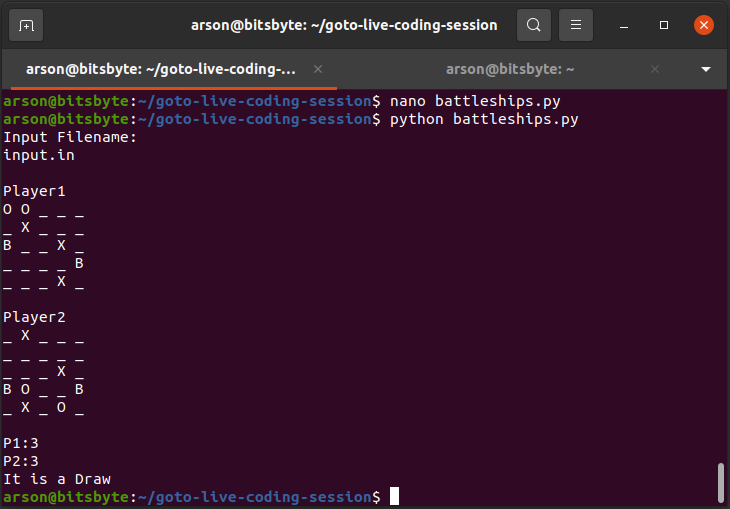
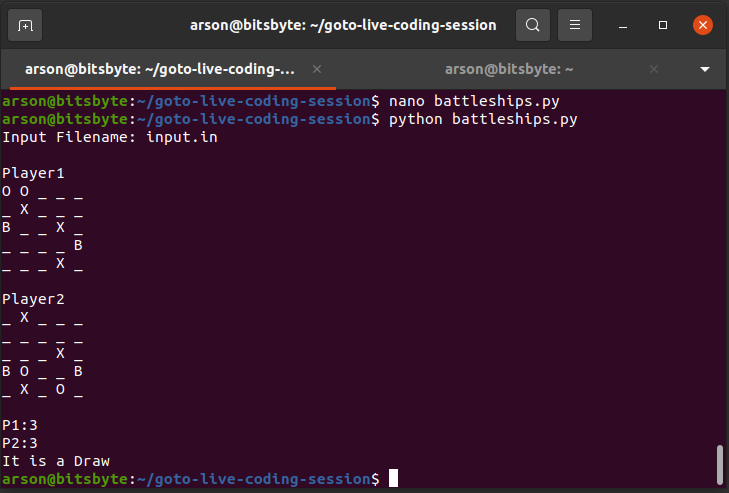
Final Update

diff --git a/battleships.py b/battleships.py
@@ -1,4 +1,4 @@
-print("Input Filename: ")
+print("Input Filename:", end=" ")
 filename = input()
 
 print()
